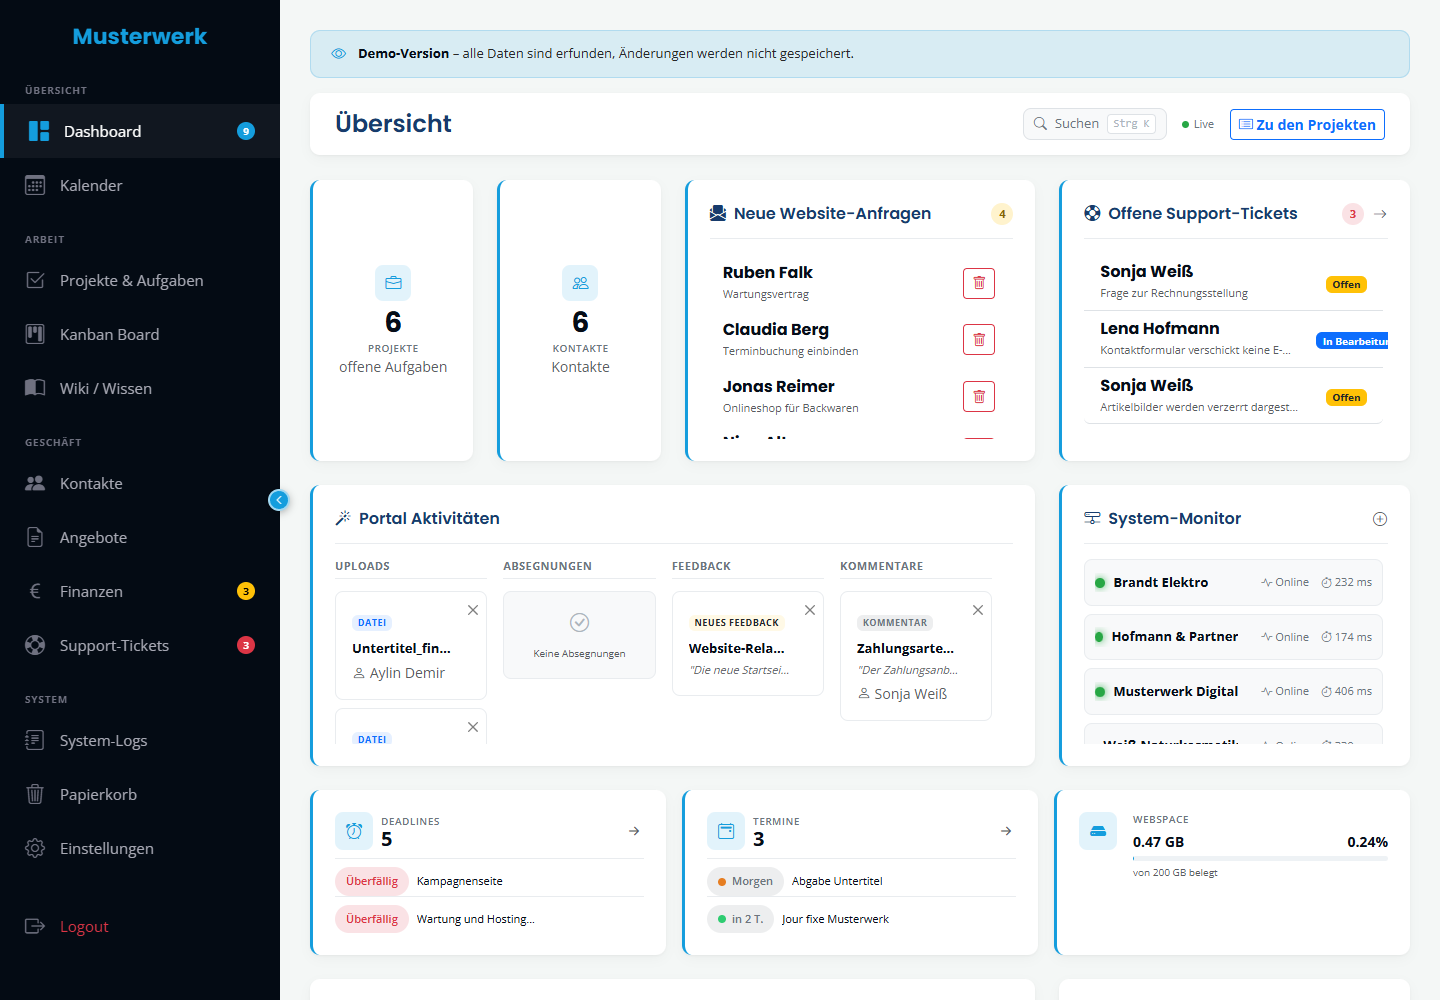
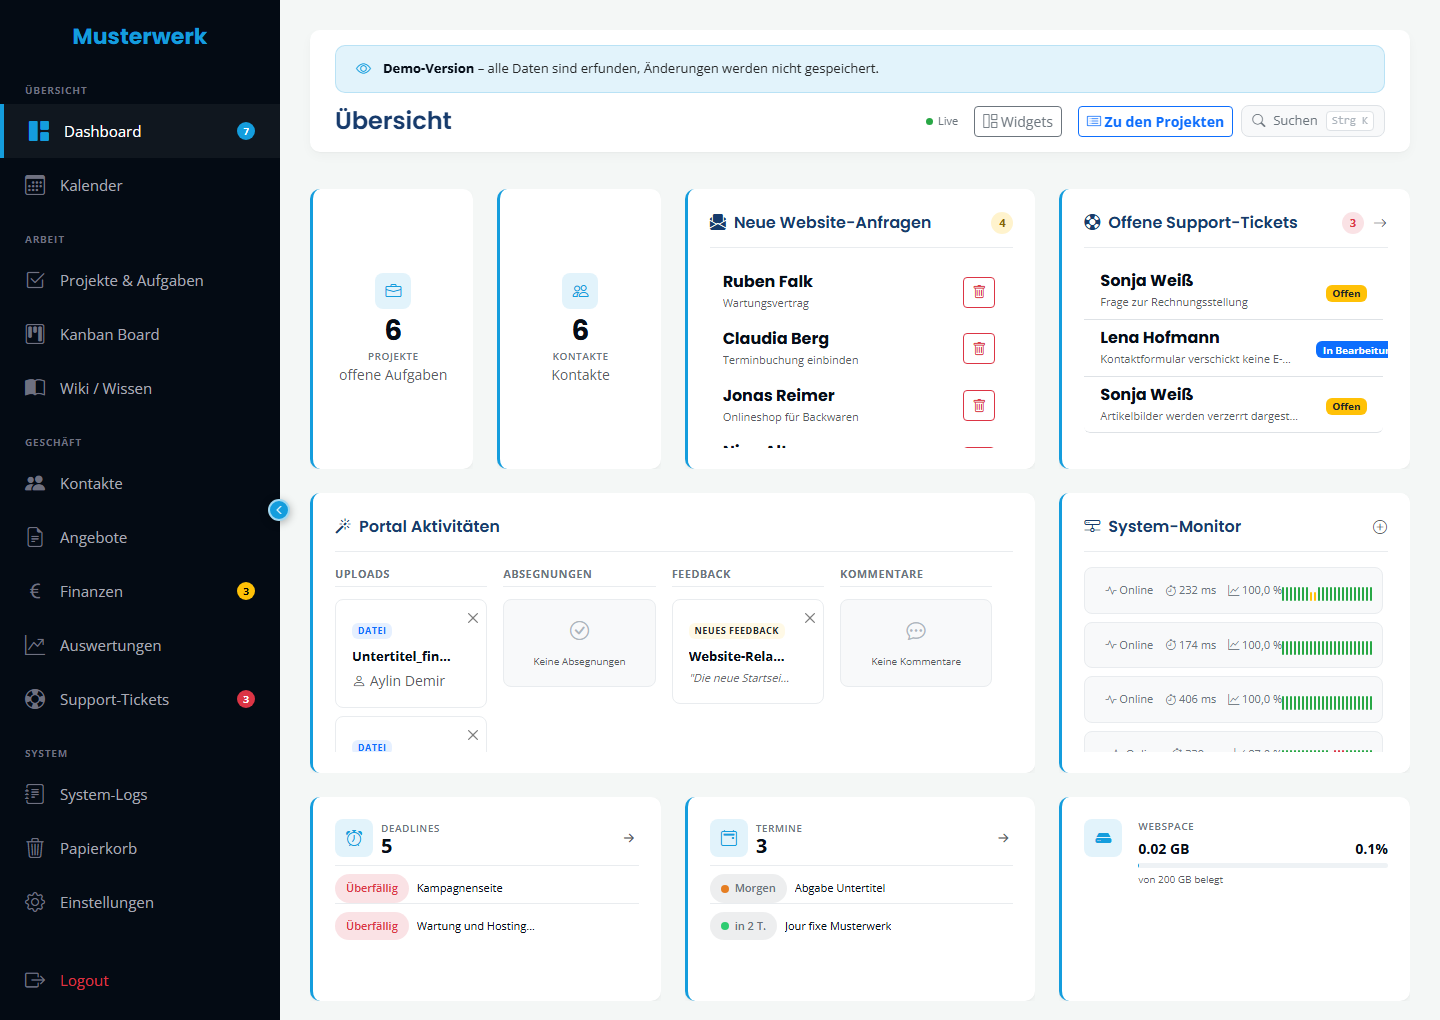
docs: new screenshots and a README that opens on one
Six screenshots replace the four, captured from a demo instance carrying
the data the seed now generates - the reports page, the uptime history
and the reminder levels had nothing to show before. The dashboard also
runs as a full-width image right under the intro, so the first screen of
the README shows the panel instead of describing it.

Captured in German. The data is German and the English interface is not
finished - action buttons, status badges, chart labels and month names
still come through in German, and an English shell around German content
photographs worse than a German interface that agrees with itself.
docs/screenshots/README.md says so, and says to reverse it once the
translation is done.

The feature list is grouped (work, money, people, everywhere) instead of
one flat run of eighteen bullets, and an "at a glance" table answers the
questions asked before reading further: what it needs, what it pulls in,
whether there is a build step.

install/preflight.php said "21 expected tables" in three places while its
list had held 27 for a while. A complete database was reported as "21 of
21" with six tables unmentioned. The count now comes from the list.

diff --git a/install/preflight.php b/install/preflight.php
@@ -402,7 +402,11 @@ if (!$envExists) {
         pf_add('Datenbank', 'Server-Version', 'FAIL', 'Konnte nicht ermittelt werden: ' . pf_mask_secrets($e->getMessage()));
     }
 
-    // -- Tabellen: welche der 27 erwarteten existieren --------------------
+    // -- Tabellen: welche der erwarteten existieren -----------------------
+    // Die Zahl kommt aus der Liste selbst. Sie stand dreimal als 21 im
+    // Text, waehrend die Liste laengst 27 Eintraege hatte: eine
+    // vollstaendige Datenbank meldete "21 von 21" und verschwieg sechs
+    // Tabellen, eine unvollstaendige rechnete falsch.
     // task_contacts und project_comments standen hier lange nicht drin,
     // obwohl install/schema.sql sie anlegt: sie kamen ueber die
     // Migrationen 5 und 6 dazu, und diese Liste wurde nicht mitgezogen.
@@ -425,13 +429,14 @@ if (!$envExists) {
         $missing = array_values(array_diff($expectedTables, $existingTables));
         $present = array_values(array_intersect($expectedTables, $existingTables));
         if ($missing === []) {
-            pf_add('Datenbank', 'Tabellen (21 erwartet)', 'PASS', 'Alle 21 erwarteten Tabellen vorhanden.');
+            pf_add('Datenbank', 'Tabellen (' . count($expectedTables) . ' erwartet)', 'PASS',
+                   'Alle ' . count($expectedTables) . ' erwarteten Tabellen vorhanden.');
         } else {
             pf_add(
                 'Datenbank',
-                'Tabellen (21 erwartet)',
+                'Tabellen (' . count($expectedTables) . ' erwartet)',
                 'FAIL',
-                count($present) . ' von 21 vorhanden. Fehlend: ' . implode(', ', $missing) . '. Vorhanden: ' . implode(', ', $present) . '. install/schema.sql importieren.'
+                count($present) . ' von ' . count($expectedTables) . ' vorhanden. Fehlend: ' . implode(', ', $missing) . '. Vorhanden: ' . implode(', ', $present) . '. install/schema.sql importieren.'
             );
         }
     } catch (Throwable $e) {

diff --git a/README.md b/README.md
@@ -3,6 +3,7 @@
 [![CI](https://github.com/immarketing-dev/admin-dashboard/actions/workflows/ci.yml/badge.svg)](https://github.com/immarketing-dev/admin-dashboard/actions/workflows/ci.yml)
 [![PHP 8.1+](https://img.shields.io/badge/PHP-8.1%2B-777bb4)](https://www.php.net/)
 [![No build step](https://img.shields.io/badge/build%20step-none-lightgrey)](#installation)
+[![Live demo](https://img.shields.io/badge/live-demo-149ddd)](https://admin.david-imminger.de/demo)
 [![License: MIT](https://img.shields.io/badge/license-MIT-blue)](LICENSE)
 
 Self-hosted admin panel for freelancers and small agencies. Projects with
@@ -11,6 +12,8 @@ support tickets, a wiki, and a client portal your customers log into with a
 token and a PIN.
 
 Plain PHP and MySQL. No framework, no build step — upload it and it runs.
+
+![The dashboard](docs/screenshots/dashboard.png)
 
 ### ▶ [Try the live demo](https://admin.david-imminger.de/demo)
 
@@ -24,45 +27,81 @@ mode works, and how to run one yourself, is in [docs/DEMO.md](docs/DEMO.md).
 
 ---
 
+### At a glance
+
+| | |
+|---|---|
+| **Runtime** | PHP 8.1+, MySQL 5.7.8+ / MariaDB 10.2.7+, Apache with `mod_rewrite` |
+| **Dependencies** | PHPMailer and FPDF, both committed to `vendor/` — `composer install` is optional |
+| **Build step** | None. No bundler, no transpiler, no `node_modules` |
+| **Front end** | Bootstrap 5 and a handful of vendored libraries, all served from the project |
+| **Scheduled work** | One cron entry calling `cron.php`; everything else is on-request |
+| **Checks** | `bash tools/check.sh` runs the full suite; CI covers PHP 8.1, 8.2 and 8.3 |
+
 **Contents** — [Features](#features) · [Screenshots](#screenshots) · [Requirements](#requirements) · [Installation](#installation) · [Configuration](#configuration) · [Security](#security) · [Tooling](#tooling)
 
 ## Features
 
-- **Dashboard** — KPIs, upcoming deadlines, parallel uptime monitoring for a
-  list of URLs, an inbox for leads coming from your website's contact form
-- **Projects** — milestones, file attachments, time tracking, client feedback
+**Work**
+
+- **Dashboard** — KPIs, upcoming deadlines, uptime monitoring with a
+  24-hour history per address, an inbox for leads coming from your
+  website's contact form. The widgets can be rearranged and the layout is
+  remembered per user
+- **Projects** — milestones, file attachments, time tracking with a
+  running timer, client feedback straight from the portal
 - **Kanban board** — drag and drop across three columns
-- **CRM** — contacts, companies, portal access per contact
+- **Calendar** — deadlines and due dates, appointments with .ics
+  invitations
+- **Wiki** — articles with attachments, selectively shareable with clients
+- **Support tickets** — priorities, internal and client-visible notes,
+  and an endpoint that turns an incoming e-mail into a ticket
+
+**Money**
+
 - **Finances** — income and expenses, invoice PDFs, receipts attached to
-  expenses, recurring entries, payment reminders, charts by month, year or
-  lifetime
+  expenses with a yearly CSV or ZIP export, recurring entries, payment
+  reminders in stages, charts by month, year or lifetime
 - **Quotes** — PDF generation, status tracking, one-click conversion to an
-  invoice, e-mail delivery with the PDF attached
+  invoice or to a project with milestones, e-mail delivery with the PDF
+  attached
+- **Electronic invoices** — XRechnung 3.0 / UBL 2.1 output for public
+  sector customers, and a Girocode (EPC069-12) on the printed invoice
 - **Reports** — revenue per client, outstanding invoices by age, hours
   worked but not yet billed, and a timesheet with CSV export
-- **Support tickets** — priorities, internal and client-visible notes
-- **Calendar** — deadlines and due dates, appointments with .ics invitations
-- **Wiki** — articles with attachments, selectively shareable with clients
+
+**People and access**
+
+- **CRM** — contacts, companies, portal access per contact
 - **Client portal** — projects, milestone approval, file upload, tickets,
   invoices and shared wiki articles, reached with a token and a PIN
 - **Multiple users with roles** — administration, staff, accounting; every
-  log entry and every tracked hour now carries who it was
+  log entry and every tracked hour carries who it was
+- **Two-factor sign-in** — TOTP with backup codes, plus a password reset
+  by e-mail and a lockout after repeated failures
+
+**Everywhere**
+
 - **German or English**, switchable in the settings; the client portal
   follows each contact's own language
 - **Dark mode**, responsive down to phone width
+- **Soft delete** — a trash bin that holds deleted records, with the files
+  that belong to them
 
 ## Screenshots
 
-Taken from the live demo linked above.
+From a demo instance with generated data — every name, company and amount
+in them is invented. How to capture your own:
+[docs/screenshots/README.md](docs/screenshots/README.md).
 
 | | |
 |---|---|
-| ![Dashboard](docs/screenshots/dashboard.png) | ![Projects](docs/screenshots/projects.png) |
-| **Dashboard** — KPIs, deadlines, uptime monitor, lead inbox | **Projects** — milestones, time tracking, client feedback |
-| ![Finances](docs/screenshots/finances.png) | ![Client portal](docs/screenshots/portal.png) |
-| **Finances** — twelve months of income and expenses | **Client portal** — what a customer sees after logging in |
-
-How they were captured: [docs/screenshots/README.md](docs/screenshots/README.md).
+| [![Projects](docs/screenshots/projects.png)](docs/screenshots/projects.png) | [![Kanban board](docs/screenshots/board.png)](docs/screenshots/board.png) |
+| **Projects** — milestones, tracked time, uploads and client feedback | **Kanban board** — the same projects, dragged across three columns |
+| [![Finances](docs/screenshots/finances.png)](docs/screenshots/finances.png) | [![Reports](docs/screenshots/reports.png)](docs/screenshots/reports.png) |
+| **Finances** — twelve months of income and expenses | **Reports** — outstanding invoices by age, revenue per client, unbilled hours |
+| [![Client portal](docs/screenshots/portal.png)](docs/screenshots/portal.png) | [![Dashboard](docs/screenshots/dashboard.png)](docs/screenshots/dashboard.png) |
+| **Client portal** — what a customer sees after the PIN | **Dashboard** — KPIs, deadlines, uptime history, lead inbox |
 
 ## Requirements
 
@@ -142,7 +181,7 @@ target server and open `install/preflight.php` in a browser. It works
 without any configuration and reports what the server already has — PHP
 version and extensions, whether `uploads/` and its six subdirectories are
 writable, and, once `.env` exists, whether the database is reachable,
-which of the 21 expected tables are present, and current row counts
+which of the expected tables are present, and current row counts
 (useful for confirming nothing was lost when migrating an existing
 installation onto this codebase). Act on anything it reports as FAIL, then
 **delete the file** — it reads server and database internals and must not

diff --git a/docs/screenshots/README.md b/docs/screenshots/README.md
@@ -13,37 +13,70 @@ Running the panel with `DEMO_MODE=true` and the data from
 and demo mode blocks every write, so nothing you click while capturing can
 change what the next screenshot shows.
 
-## How to capture them
+## The set
 
 Set up a demo instance following [docs/DEMO.md](../DEMO.md), then capture
 at a desktop width of 1440px and save as PNG into this directory:
 
 | File | Page | What it should show |
 |---|---|---|
-| `dashboard.png` | `/` | KPIs, deadlines, uptime monitor, lead inbox |
+| `dashboard.png` | `/` | KPIs, deadlines, uptime history, lead inbox |
 | `projects.png` | `/tasks` | milestones, time tracking, client feedback |
-| `finances.png` | `/finances` | income and expenses, the twelve-month chart |
+| `board.png` | `/board` | the three columns with progress on each card |
+| `finances.png` | `/finances?period=year` | income and expenses, the twelve-month chart |
+| `reports.png` | `/reports` | outstanding by age, revenue per client, unbilled hours |
 | `portal.png` | `/portal?token=…` | the portal as a contact sees it, past the PIN |
+
+## Which language
+
+Capture the **German** interface. The demo data is German — client names,
+project titles, ticket subjects — and the English interface is not
+finished: page-level action buttons, status badges, chart labels and month
+names still come through in German. An English shell around German content,
+with German buttons in it, looks worse in a screenshot than a German
+interface that is consistent with itself.
+
+Switch it in Settings, or set `ui_language` in the `settings` table to `de`
+before capturing. When the English translation is complete, this section
+should say the opposite.
+
+## How to capture
+
+A headless browser does it without a window manager and gives the same
+result every time. Edge and Chrome take the same flags:
+
+```bash
+"/c/Program Files (x86)/Microsoft/Edge/Application/msedge.exe" \
+  --headless=new --disable-gpu --hide-scrollbars \
+  --user-data-dir=/tmp/shot-profile \
+  --window-size=1440,1020 \
+  --screenshot="dashboard.png" \
+  "http://localhost:8000/"
+```
 
 Two things worth doing before pressing the button:
 
 - **Dismiss the notification toasts on the dashboard.** Four of them stack
   in the top-right corner and cover a whole widget. In demo mode their
-  close button is a POST and gets rejected, so remove them from the browser
-  console instead:
-  `document.querySelectorAll('.toast').forEach(t => t.remove())`
-- **Switch the finance page to "Dieses Jahr".** The default is the current
-  month, which is a handful of bars. The year view is what makes the chart
-  worth a screenshot.
+  close button is a POST and gets rejected, and a headless run cannot click
+  anyway — add `.toast-container, .toast { display: none !important; }` to
+  the capture instance's `assets/css/app.css` for the duration.
+- **Open the finance page on the year view** (`?period=year`). The default
+  is the current month, which is a handful of bars. The year view is what
+  makes the chart worth a screenshot.
+
+The client portal sits behind a PIN, and that is a POST as well. On the
+capture instance, set the session flag directly after `$_sess_key` is
+assigned in `portal.php` instead of automating the form.
 
 Then add the embeds to the main `README.md`:
 
 ```markdown
-![Dashboard](docs/screenshots/dashboard.png)
+[![Dashboard](docs/screenshots/dashboard.png)](docs/screenshots/dashboard.png)
 ```
 
 Afterwards run `bash tools/check.sh` — it flags stray files under
-`uploads/`, so clean up anything uploaded while capturing.
+`uploads/`, so clean up anything the seed or the capture left behind.
 
 ## Keeping them current
 
